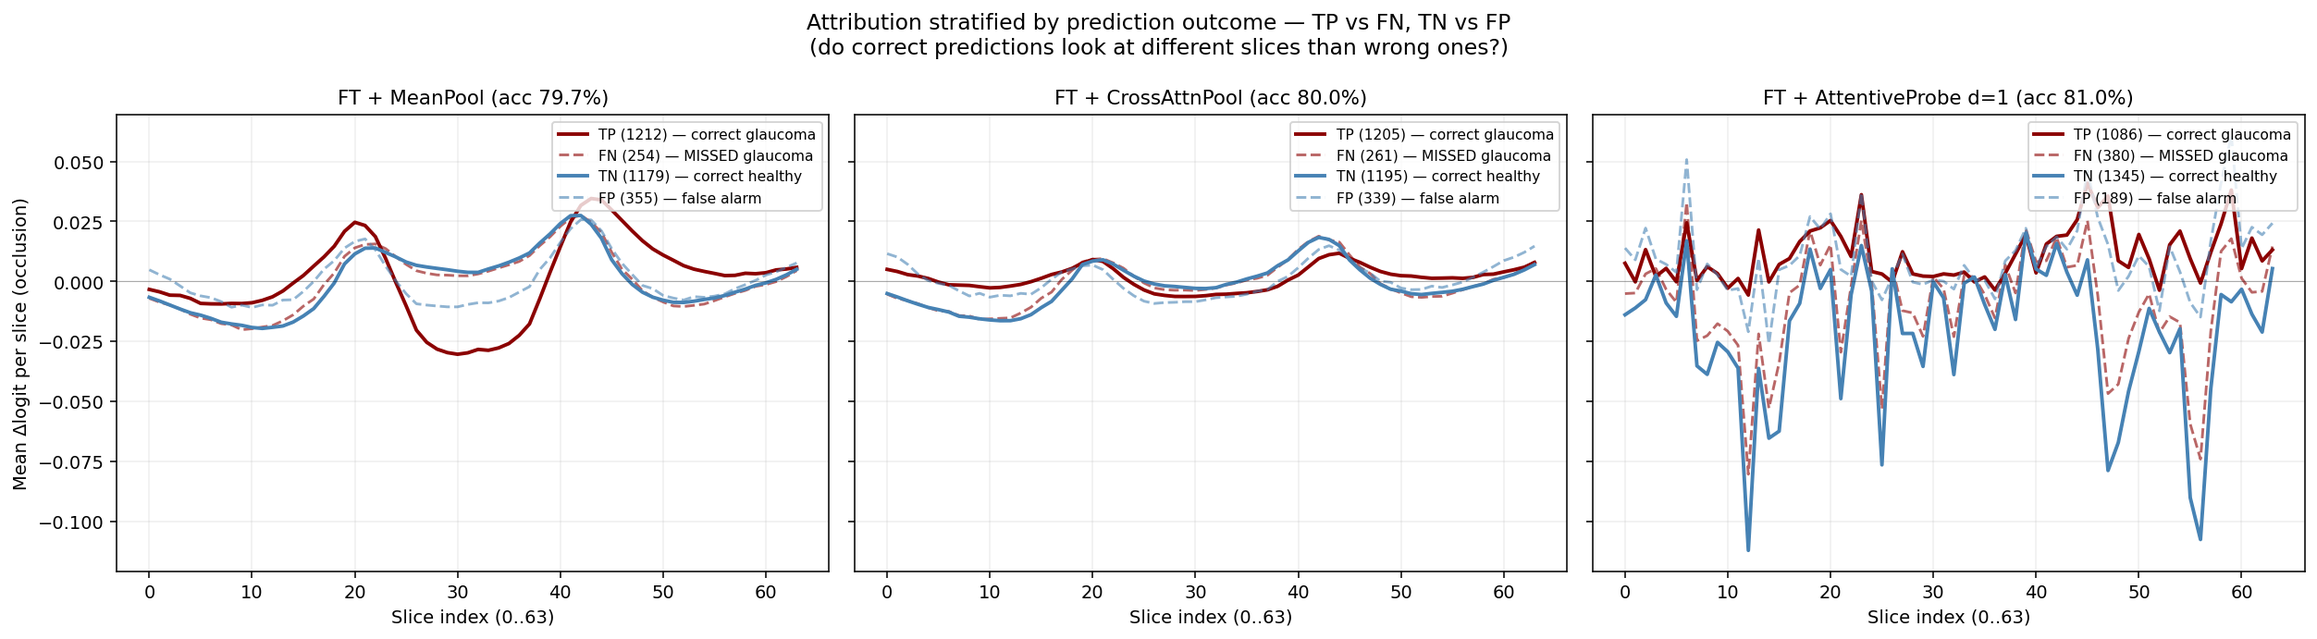
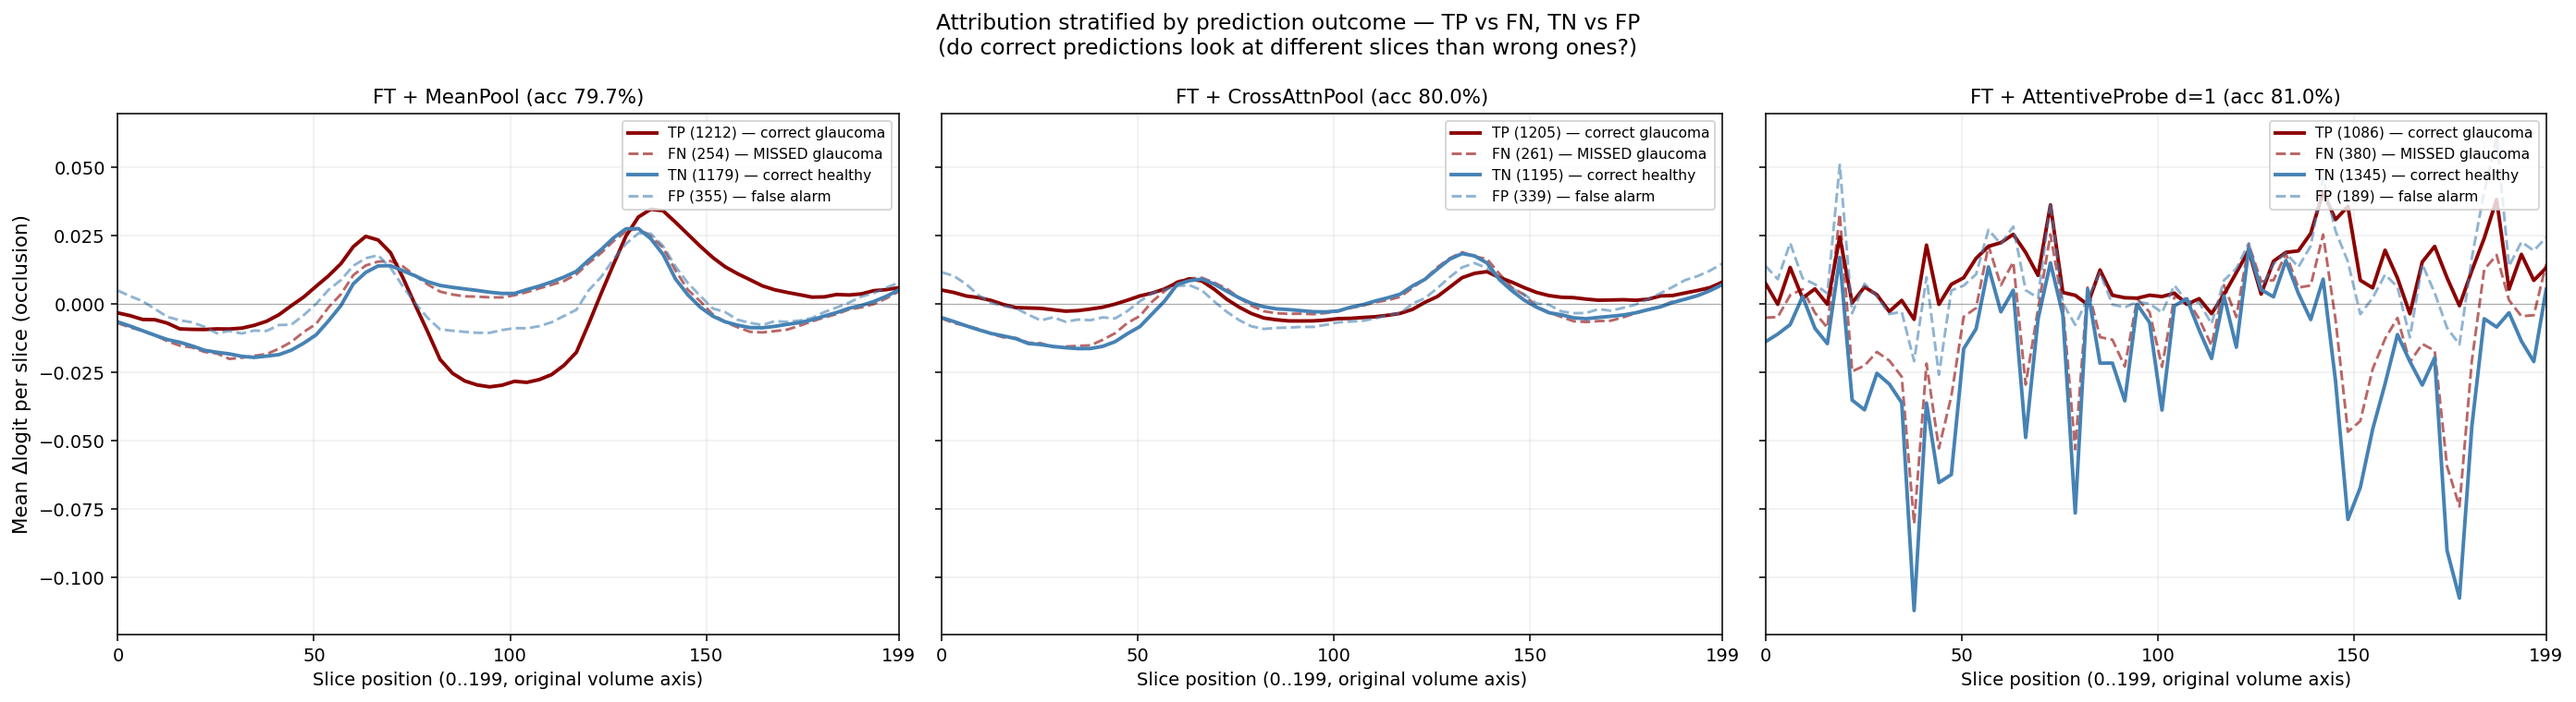
Fix confusing x-axis on slice-contribution plots
The model is fed 64 slices linspace-sampled from the original 200-slice
volume. Old plots labeled the x-axis as subset index (0..63), which a
reader naturally mis-reads as "slice N of my 200-slice volume." Subset
slice 20 is actually native volume position ~63; subset slice 43 is
native position ~137.

Both plots now use a dual x-axis:
  bottom: native volume position (0..199)
  top:    subset index fed to the model (0..63, shown in gray)

Lines plotted against true native axial positions. Preserves all
information — no data lost, reader gets both the native-axis view
(useful for anatomical claims) and the subset-index view (useful for
reproducing the code).

Also updated interpretability.md to phrase peak locations by native
position first, subset index second:
  superior disc rim ~native 63 (subset 20)
  cup center ~native 95 (subset 30)
  inferior disc rim ~native 137 (subset 43)

No change to the underlying data; just axis labels + paragraph wording.

diff --git a/docs/experiments/interpretability.md b/docs/experiments/interpretability.md
@@ -63,15 +63,17 @@ All three fine-tune models — despite architectural differences of 7.17M params
 
 ![Slice contribution curves](../../results/summary/slice_contribution_curves.png)
 
+**Note on the x-axis**: the model is fed 64 slices `linspace`-sampled from the original 200-slice volume. The plot's bottom x-axis (0..199) is the position in the native volume; the top x-axis (0..63) is the subset index the model actually sees. So "subset slice 20" = original volume position ~63; "subset slice 43" = native position ~137.
+
 Peak positive-class (glaucoma) contribution per model:
 
-| Model | Probe params | Peak slice index | Axial position (of 199) | Peak Δlogit |
+| Model | Probe params | Peak subset idx | Native volume position | Peak Δlogit |
 |---|---|---|---|---|
-| FT + MeanPool | 0 | 43 | ~136 | +0.033 |
-| FT + CrossAttnPool | 277K | 44 | ~139 | +0.013 |
-| FT + AttentiveProbe d=1 | 7.17M | 45 | ~142 | +0.037 |
+| FT + MeanPool | 0 | 43 | ~137 / 199 | +0.033 |
+| FT + CrossAttnPool | 277K | 44 | ~140 / 199 | +0.013 |
+| FT + AttentiveProbe d=1 | 7.17M | 45 | ~143 / 199 | +0.037 |
 
-All three peaks land within 2 slices of each other. The three curves also share a secondary peak near slice 20 and a dip at slice ~30.
+All three peaks land within 2 subset slices (~6 native slices) of each other. The three curves also share a secondary peak near native position ~63 (subset idx ~20) and a dip around native position ~95 (subset idx ~30).
 
 ## Cross-model agreement
 
@@ -87,11 +89,11 @@ MeanPool and CrossAttnPool agree nearly perfectly on the *shape* of the contribu
 
 ## Anatomical validation — two peaks at the disc rim
 
-FairVision volumes are Zeiss Cirrus HD-OCT 200×200×200 optic disc cubes. B-scans in the slow-scan direction (our "slice" axis) pass through the optic nerve head at center. The two peaks + central dip pattern maps directly onto glaucoma anatomy:
+FairVision volumes are Zeiss Cirrus HD-OCT 200×200×200 optic disc cubes. B-scans in the slow-scan direction (our "slice" axis) pass through the optic nerve head at center. The two peaks + central dip pattern maps directly onto glaucoma anatomy (reported against the native 0..199 volume axis):
 
-- **Slice ~20 peak** → superior disc rim
-- **Slice ~30 dip** → disc center (the cup itself — relatively featureless compared to the rim)
-- **Slice ~43 peak** → inferior disc rim
+- **Peak at native position ~63** (subset idx ~20) → superior disc rim
+- **Dip at native position ~95** (subset idx ~30) → disc center (the cup itself, relatively featureless compared to the rim)
+- **Peak at native position ~137** (subset idx ~43) → inferior disc rim
 
 Superior and inferior disc rim thinning are **the** classic glaucoma findings (Garway-Heath et al., Ophthalmology 2000; Hood et al., Prog Retin Eye Res 2007). The model — all three architectures — discovered this pattern without any anatomical priors.
 
